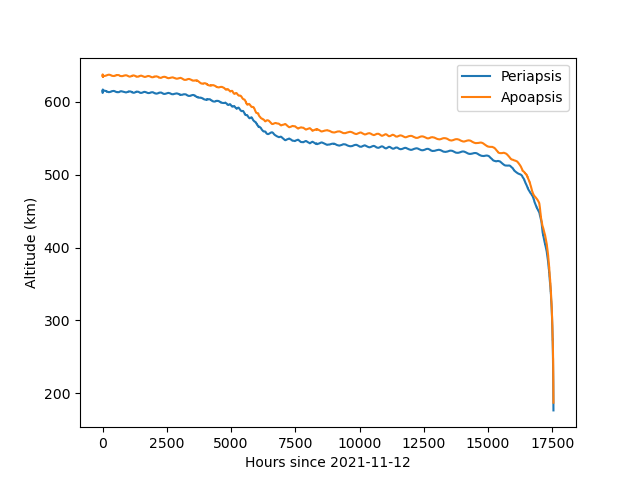
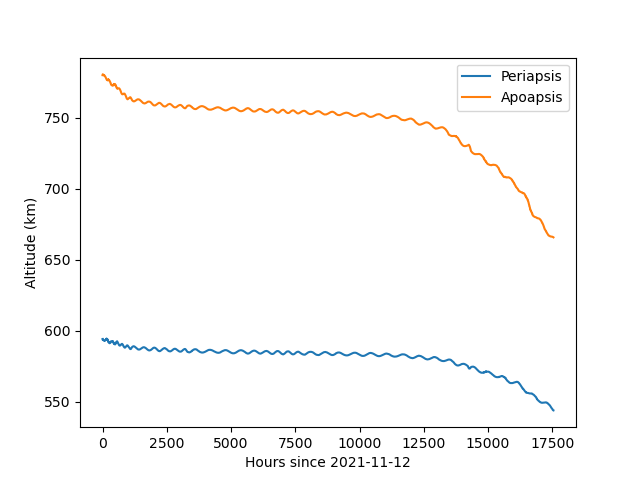
changed name in extract

diff --git a/Data_extract.py b/Data_extract.py
@@ -67,7 +67,7 @@ def TLE_extract(path):
 
 if __name__ == "__main__":
     import matplotlib.pyplot as plt
-    per, ap, time = TLE_extract('TLEs Satellites\Delfi-C3_TLE')
+    per, ap, time = TLE_extract('TLEs Satellites\Delfi-n3Xt_TLE')
     plt.plot(time, per, label='Periapsis')
     plt.plot(time, ap, label='Apoapsis')
     plt.xlabel('Hours since 2021-11-12')
